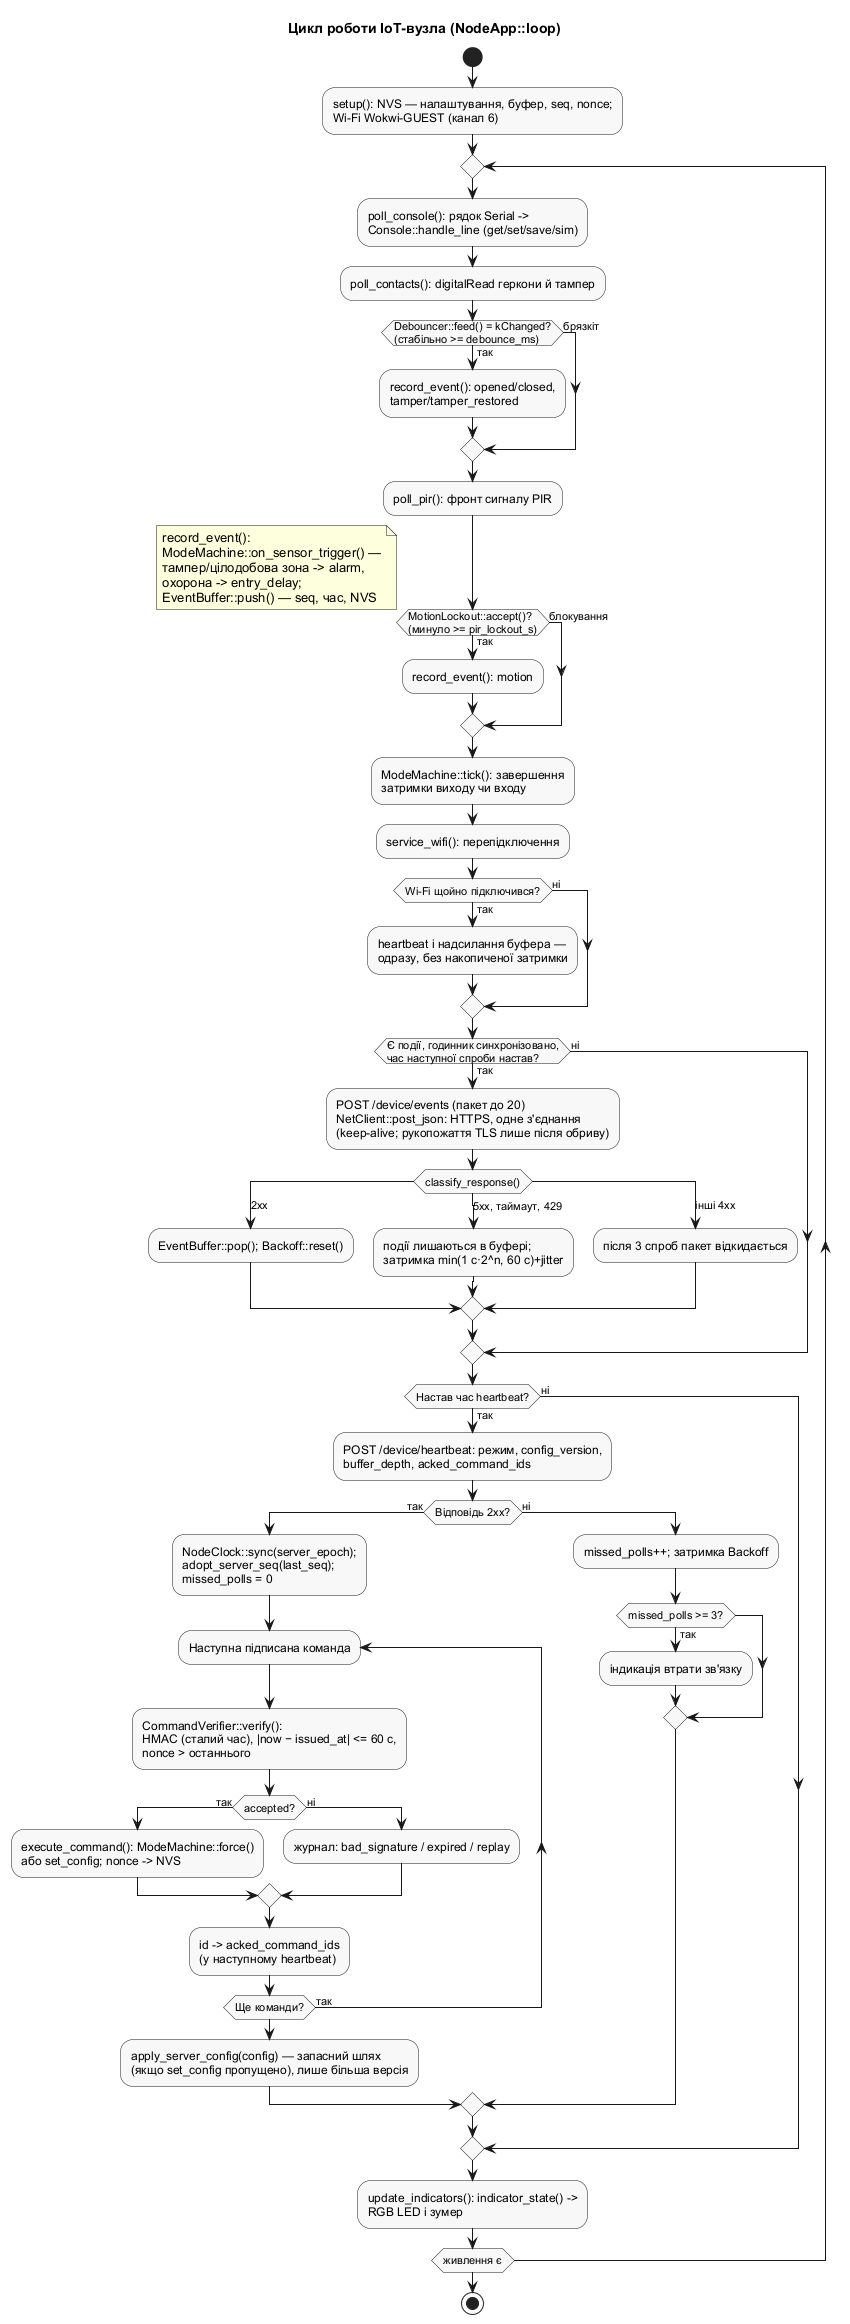
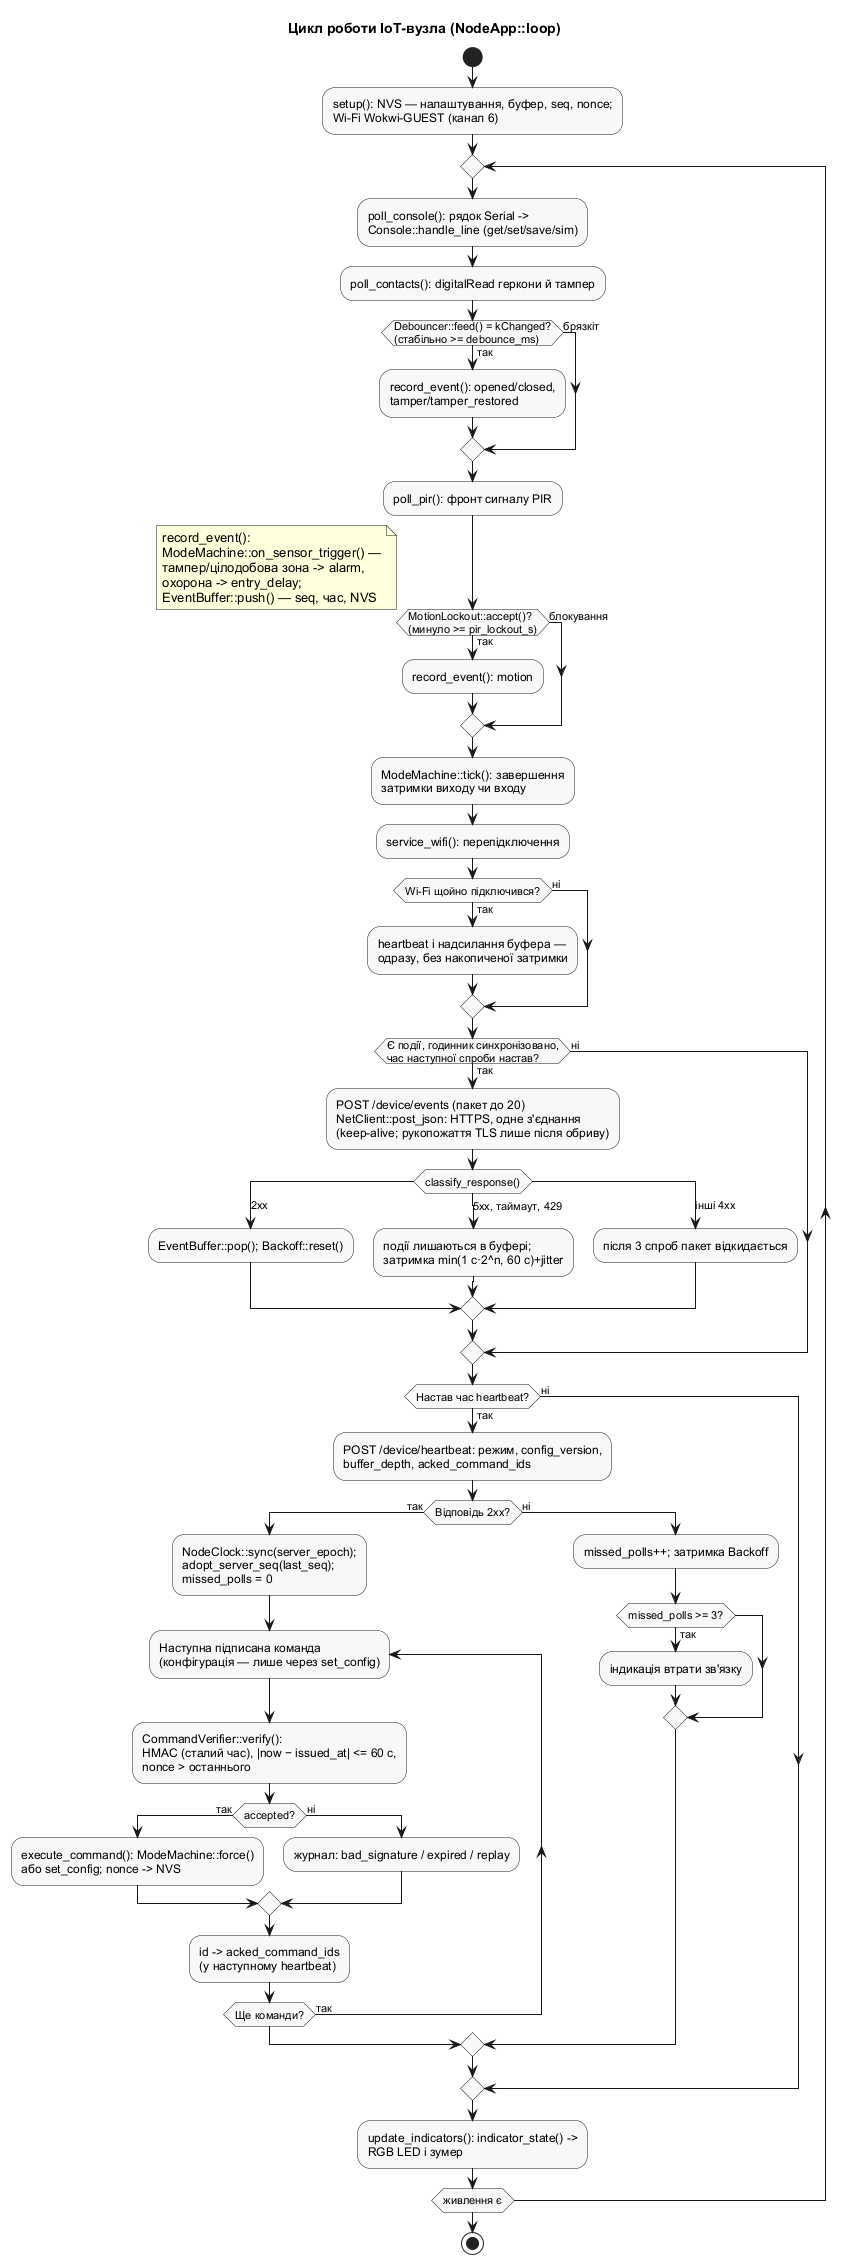
IoT: конфігурація лише з підписаної команди set_config
Ревю коду: вузол застосовував неподписане поле config відповіді heartbeat,
тож затримки й блокування можна було змінити без підпису (ІК-7). Тепер
конфігурація — лише з підписаної set_config, пропущену команду сервер
надсилає повторно за config_version. Припущення 41а і 42, api.md, діаграми
діяльності й взаємодії, файл передачі.

diff --git a/iot/src/node_app.cpp b/iot/src/node_app.cpp
@@ -285,13 +285,11 @@ void NodeApp::heartbeat_succeeded(const HeartbeatReply& reply,
   missed_polls_ = 0;
   heartbeat_backoff_.reset();
   next_heartbeat_ms_ = now_ms + settings_.poll_interval_s * kMsPerSecond;
-  // Спершу підписані команди (основний шлях), потім поле config — запасний
-  // шлях для вузла, що пропустив команду set_config (строк дії 60 с минув).
+  // Конфігурація застосовується лише з підписаної команди set_config (ІК-7).
+  // Поле config відповіді не використовується: якщо вузол пропустив команду,
+  // сервер за config_version із heartbeat надсилає її повторно.
   for (const Command& command : reply.commands) {
     process_command(command, now_ms);
-  }
-  if (reply.has_config) {
-    apply_server_settings(reply.config, "heartbeat");
   }
   if (machine_.mode() != reported_mode_ ||
       reply.facility_mode != mode_name(machine_.mode())) {

diff --git a/docs/assumptions.md b/docs/assumptions.md
@@ -182,13 +182,19 @@ Vision & Scope.
     Повторна команда з правильним підписом (той самий nonce) не виконується
     вдруге. Команда, підроблена консольною командою `sim badcmd`, не
     підтверджується серверу (її `id` не є UUID).
-42. **Конфігурація вузла** надходить двома шляхами з однаковою версією:
-    підписаною командою `set_config` та полем `config` кожної відповіді
-    heartbeat (для вузла, що пропустив команду довше за 60 с). Вузол
-    застосовує конфігурацію цілком і лише з більшою `config_version`.
-    Налаштування вузла не дають доступу до охорони, тому для поля `config`
-    достатньо TLS і токена пристрою. Зміна з консолі діє до наступної новішої
-    версії із сервера; `defaults` скидає версію до 0, тож сервер знову
+42. **Конфігурація вузла — лише підписаною командою `set_config`.**
+    Вузол застосовує конфігурацію цілком і лише з більшою `config_version`.
+    Поле `config` у відповіді heartbeat лишилося довідковим (зворотна
+    сумісність), вузол його не застосовує: інакше затримки й блокування
+    можна було б змінити без підпису (знайдено під час ревю коду; затримка
+    входу 600 с фактично вимикає реакцію на проникнення). Якщо вузол
+    пропустив команду (строк дії 60 с минув, NVS очищено), він повідомляє в
+    heartbeat меншу `config_version`, і сервер надсилає підписану `set_config`
+    повторно (не частіше ніж раз на 5 хв для того самого вмісту). Під час
+    (повторного) введення вузла в експлуатацію `config_version` стає не
+    меншою за поточний час Unix, тож після очищення чи відновлення БД сервера
+    вузол знову приймає конфігурацію. Зміна з консолі діє до наступної
+    новішої версії із сервера; `defaults` скидає версію до 0, і сервер знову
     надсилає свою конфігурацію.
 43. **Межі налаштувань вузла**, яких немає у Vision & Scope: `debounce_ms` —
     10–1000 мс (за замовчуванням 50), `pir_lockout_s` — 0–600 с (10).
@@ -229,6 +235,14 @@ Vision & Scope.
     під час збирання з `iot/include/secrets.h`, який генерує
     `scripts/provision_node.py` (файл не комітиться). Консоль змінює лише
     `server_url`.
+41а. **Узгодження без нескінченних повторів.** Якщо вузол підтвердив
+    команду узгодження (режиму чи конфігурації), але стан не змінився
+    (наприклад, вузол відхиляє підпис після повторного введення без
+    перепрошивки), така сама команда повторюється не частіше ніж раз на 5 хв.
+    Підтверджені й прострочені команди старші за 30 днів видаляє очищення
+    застарілих даних. Одноразове число обчислюється під блокуванням рядка
+    вузла (`SELECT … FOR UPDATE`), тож паралельні команди не дають помилки
+    унікальності.
 50. **TLS вузла.** `WiFiClientSecure` з `setCACert`. Сертифікат-якір
     (`OBERIH_CA_CERT`) скрипт `provision_node` бере з перевіреного ланцюжка TLS
     сервера чи тунелю, тож шукати його вручну не потрібно. За замовчуванням

diff --git a/docs/handoff-lab4-lab5.md b/docs/handoff-lab4-lab5.md
@@ -118,7 +118,8 @@
 4. **Після відновлення мережі вузол чекав до 60 с.** Тепер повтор
    відбувається одразу після підключення Wi-Fi.
 5. **Підписаний `set_config` відкидався як застарілий.** Тепер спершу
-   обробляються команди, потім поле `config` із heartbeat.
+   обробляються команди. Після ревю коду поле `config` із heartbeat
+   узагалі не застосовується (див. «Виправлення після ревю коду»).
 6. **Cloudflare Quick Tunnel рвав рукопожаття з Wokwi (~10 с).** TLS
    завершує власний сервер, а bore лише пересилає TCP (припущення 50б).
 7. **Розбіжності документації з Wokwi.** Треба відкривати папку `iot`;
@@ -240,6 +241,28 @@
 - **Сертифікат Nginx самопідписаний** (локальний варіант); вузол довіряє
   саме йому.
 - **Ліміти частоти** обрано без опори на Vision & Scope (припущення 53).
+
+## Виправлення після ревю коду (22.11.2026, гілки `lab4` і `lab5`)
+
+Автоматичне ревю змін ЛБ4–ЛБ5 (`189a5d9..main`) дало 10 зауважень; усі
+перевірено й виправлено з тестами:
+
+1. Розклади в дні переведення годинника (запуск 03:30 у день весняного
+   переходу не спрацьовував) — порівняння в UTC.
+2. Закриття останньої тривоги не надсилало вузлам команду `disarm`.
+3. Неподписане поле `config` у heartbeat обходило перевірку підпису
+   (ІК-7) — тепер конфігурація лише з підписаної `set_config`
+   (припущення 42).
+4. Після очищення БД вузол ігнорував конфігурацію (`config_version`
+   починалася з 1) — версія від часу Unix під час введення вузла.
+5. Узгодження режиму створювало команду на кожен heartbeat, якщо вузол
+   відхиляє підпис — обмеження повтору 5 хв, очищення старих команд
+   (припущення 41а).
+6. Гонка одноразового числа (HTTP 500) — блокування рядка вузла.
+7. `provision_node` на Python < 3.13 — зрозуміле повідомлення.
+8. ЛБ5: підробка `X-Forwarded-For` обходила обмеження частоти входу.
+9. ЛБ5: очищення даних виконувалося на всіх екземплярах api.
+10. ЛБ5: `backup-db.ps1` мав зашитого користувача БД.
 
 ## Виконання розкладів (доповнення, гілка `lab4`)
 

diff --git a/docs/api.md b/docs/api.md
@@ -169,6 +169,11 @@ X-Device-Token: <token>
   вузла або `exit_delay_s`, `entry_delay_s`, `poll_interval_s` об'єкта
   збільшує `config_version` і ставить команду `set_config` із повною
   конфігурацією.
+- **Конфігурація** застосовується вузлом лише з підписаної `set_config`.
+  Поле `config` відповіді — довідкове. Якщо `config_version` у heartbeat
+  менша за серверну, сервер повторно ставить `set_config` (не частіше ніж
+  раз на 5 хв для того самого вмісту). Введення в експлуатацію встановлює
+  `config_version` не меншою за поточний час Unix.
 - **Підпис:** `HMAC-SHA256(command_key, "<node_id>|<nonce>|<type>|<payload>|<issued_at>")`
   у hex. `payload` — рядок канонічного JSON (без пробілів, ключі за абеткою);
   вузол перевіряє підпис саме над цим рядком. Час — секунди Unix.
